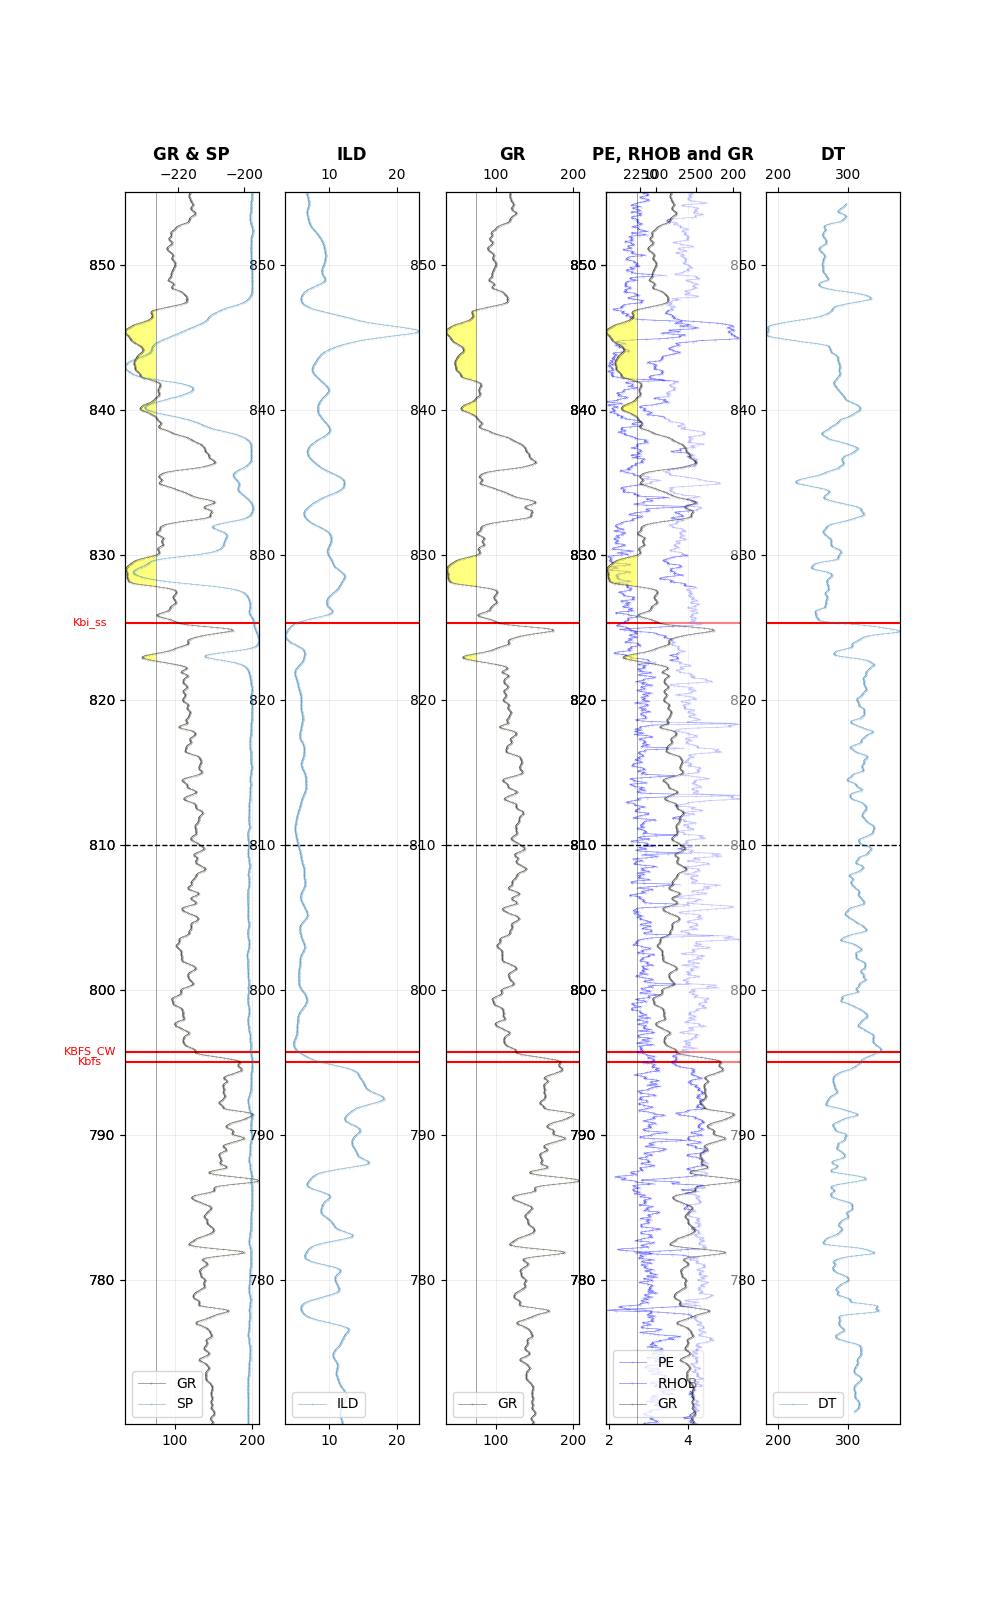
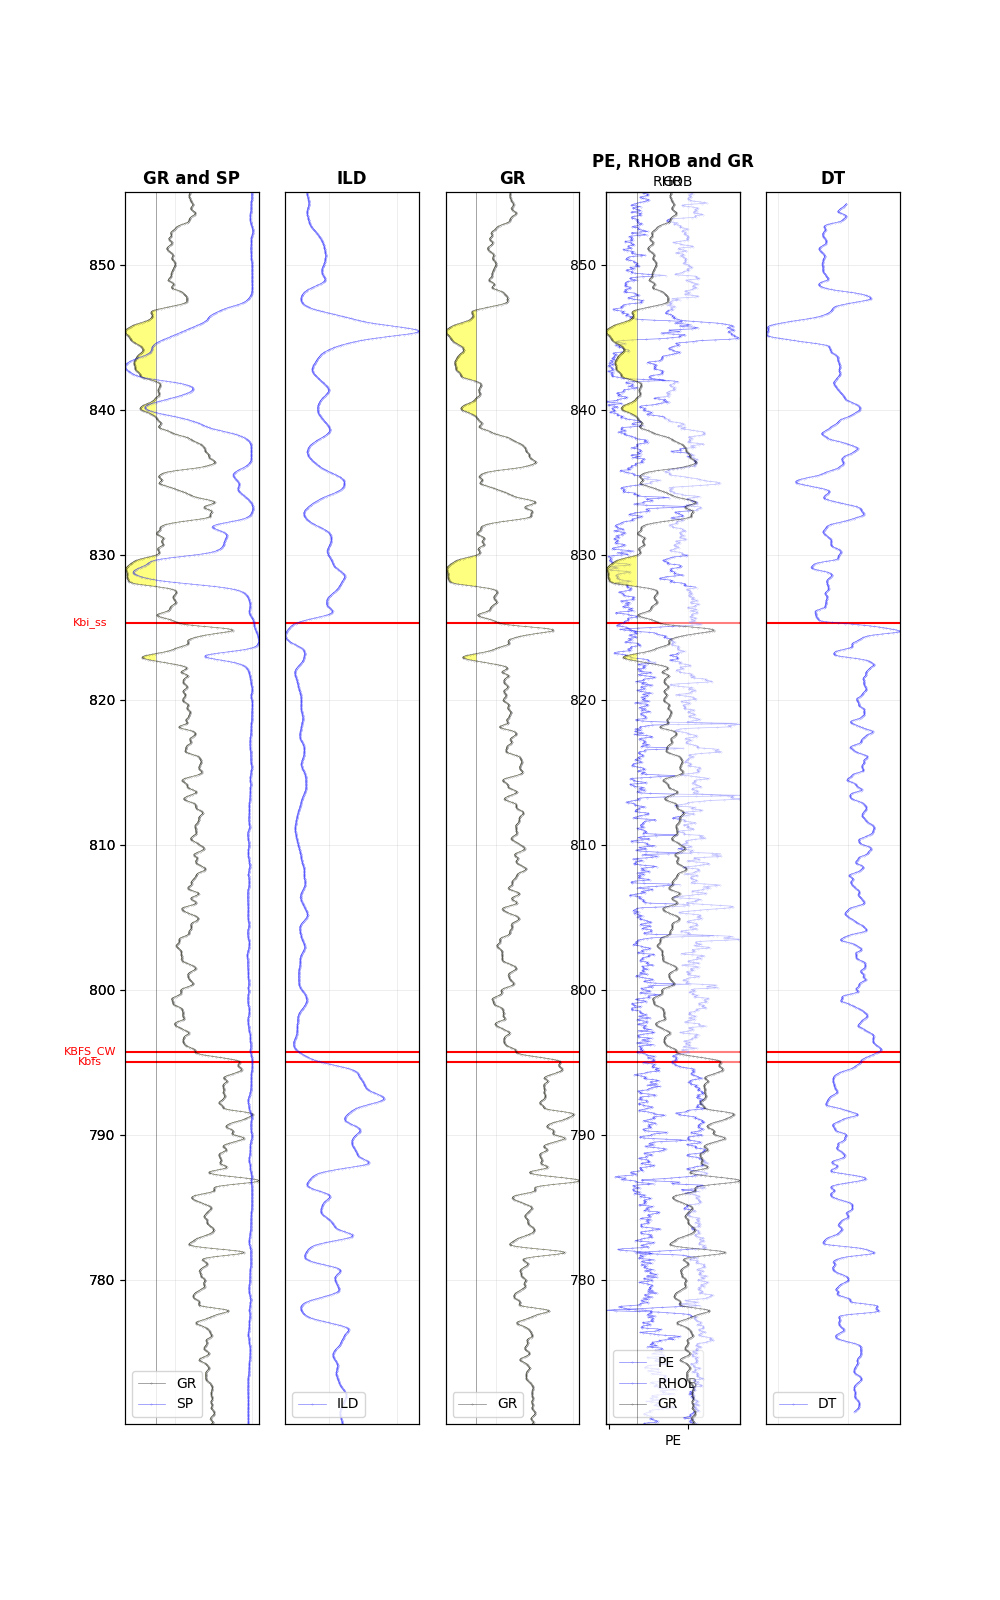
fixed scale and working on getting rid of axes

diff --git a/examples/allcurves_andy0612_driver.py b/examples/allcurves_andy0612_driver.py
@@ -24,8 +24,10 @@ def main():
     fig, axes = plt.subplots(1, len(ax_list), figsize=(len(ax_list) * 2, 16))    # zip pairs up elements from 2 lists and brings them together
     for i, (curves, ax) in enumerate(zip(ax_list, axes)):
         print(f'Plotting group: {curves}...')
+        ax.tick_params(axis='x', which='both', bottom=False, top=False, labelbottom=False, labeltop=False)
+        if i != 0:
+            ax.tick_params(axis='y', which='both', left=False, right=False, labelleft=False, labelright=False)
         top = well_tops_list[0]
-        ax.axhline(y=810, color='black', ls='--', lw=1)  # later for scale bar
         for horz, depth in top.items():
             if pd.notna(depth):
                 y = float(depth)
@@ -36,6 +38,8 @@ def main():
         if i == 3 and len(curves) == 3:  # handling the fourth group
             ax2 = ax.twiny()
             ax3 = ax.twiny()
+            ax2.tick_params(axis='x', which='both', bottom=False, top=False, labelbottom=False, labeltop=False)
+            ax3.tick_params(axis='x', which='both', bottom=False, top=False, labelbottom=False, labeltop=False)
 
             for j, curve in enumerate(curves):
                 print(f'Plotting curve: {curve}...')
@@ -50,6 +54,9 @@ def main():
                     df.plot(
                         x='GR', y='DEPTH', color='black', ax=current_ax,
                         linewidth=0.5, marker='o', markersize=0.2, alpha=0.5, label='GR')
+
+                    current_ax.tick_params(axis='x', which='both', bottom=False, top=False, labelbottom=False, labeltop=False)
+                    current_ax.tick_params(axis='y', which='both', left=False, right=False, labelleft=False, labelright=False)
 
                     gr_min = df[curve].min()
                     gr_max = df[curve].max()
@@ -72,15 +79,11 @@ def main():
 
             # adjusting proper y limits
             ax.set_ylim(df['DEPTH'].min(), df['DEPTH'].max())
+
             # x axis limits
             ax.set_xlim(df[curves[0]].min(), df[curves[0]].max())
             ax2.set_xlim(df[curves[1]].min(), df[curves[1]].max())
             ax3.set_xlim(df[curves[2]].min(), df[curves[2]].max())
-
-            # removing x axis
-            ax.set_xlabel('')
-            ax2.set_xlabel('')
-            ax3.set_xlabel('')
 
             # combining the legends and putting bottom left
             lines_1, labels_1 = ax.get_legend_handles_labels()
@@ -95,12 +98,14 @@ def main():
 
             continue
 
-        # creating a new x-axis on the top for next curve but for same graph
         ax2 = ax.twiny()
-
+        ax2.tick_params(axis='x', which='both', bottom=False, top=False, labelbottom=False, labeltop=False)
 
         for j, curve in enumerate(curves):
-            print(f'Plotting curve: {curve}...')
+            print(f'Plotting group: {curves}...')
+            ax.tick_params(axis='x', which='both', bottom=False, top=False, labelbottom=False, labeltop=False)
+            if i != 0:
+                ax.tick_params(axis='y', which='both', left=False, right=False, labelleft=False, labelright=False)
             if curve == 'GR':
                 df.plot(
                     x=curve, y='DEPTH', color='black', ax=ax,
@@ -112,7 +117,7 @@ def main():
             else:
                 next_ax = ax2 if j > 0 and ax2 else ax
                 df.plot(
-                    x=curve, y='DEPTH', ax=next_ax, label=curve,
+                    x=curve, y='DEPTH', color='blue', ax=next_ax, label=curve,
                     linewidth=0.5, marker='o', markersize=0.2, alpha=0.5)
 
         # adjusting proper y limits and x limits
@@ -134,7 +139,7 @@ def main():
             ax2.get_legend().remove() if ax2.get_legend() else None
 
         ax.grid(True, linestyle='-', alpha=0.3, linewidth=0.5)
-        ax.set_title(' & '.join(curves), fontweight='bold', fontsize=12)
+        ax.set_title(' and '.join(curves), fontweight='bold', fontsize=12)
 
     plt.savefig(f'../figures/all_log.png')
     plt.show()
